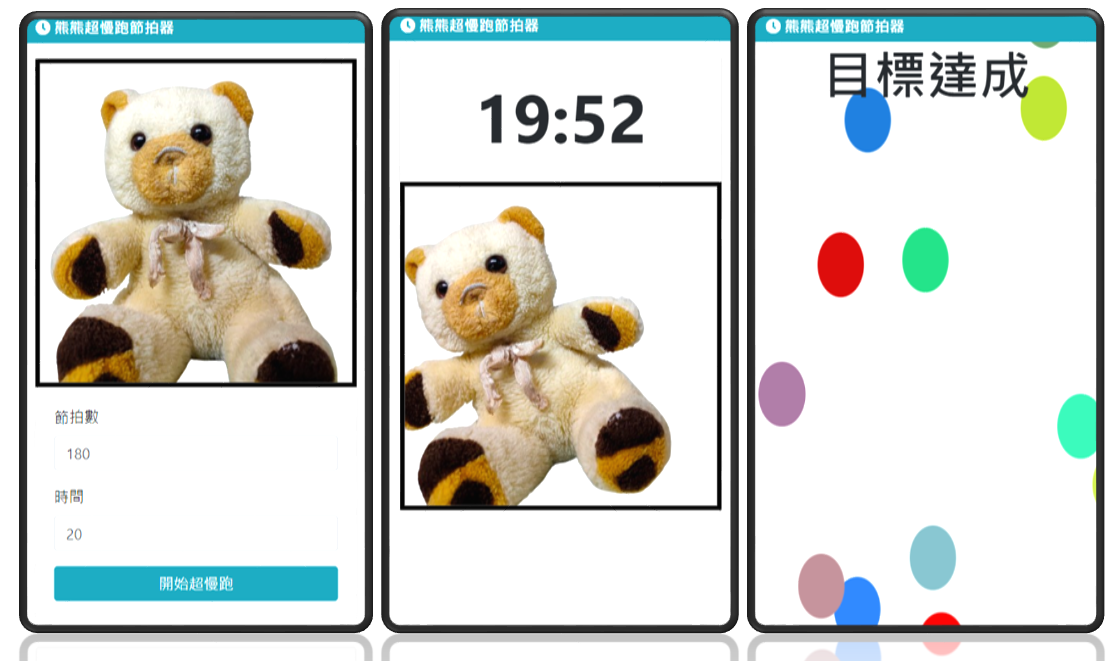
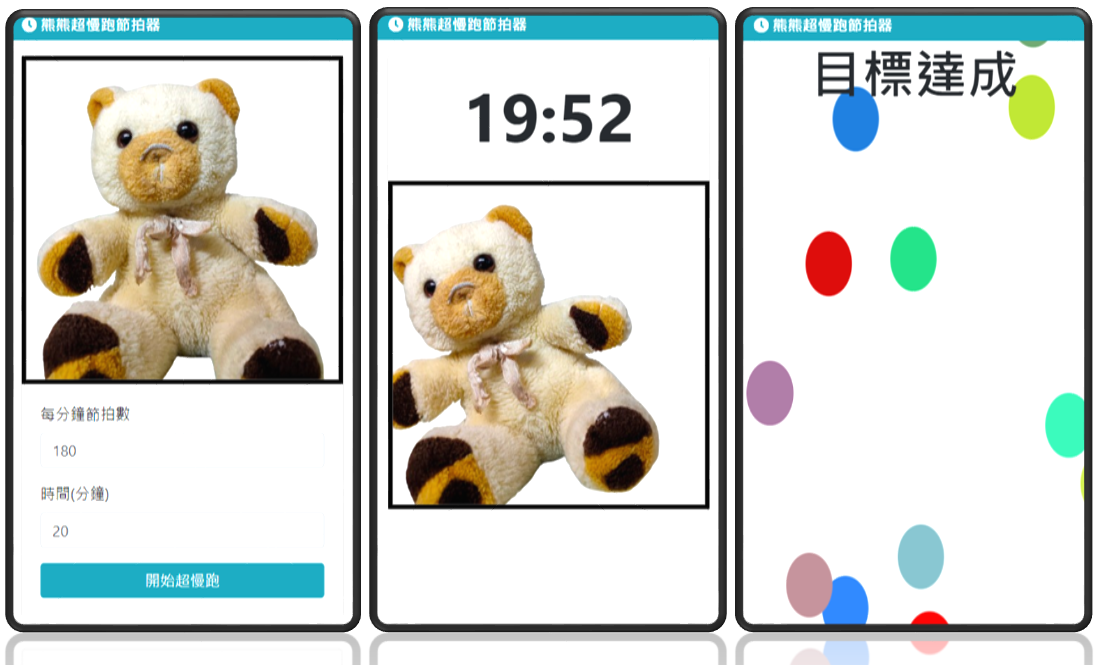
text & md

diff --git a/index.html b/index.html
@@ -84,13 +84,13 @@
                         <div class="row justify-content-center">
                             <div class="col-md-12">
                                 <div class="form-group">
-                                    <label for="bpm">節拍數</label>
+                                    <label for="bpm">每分鐘節拍數</label>
                                     <input type="number" class="form-control" id="bpm" value="180">
                                 </div>
                             </div>
                             <div class="col-md-12">
                                 <div class="form-group">
-                                    <label for="time">時間</label>
+                                    <label for="time">時間(分鐘)</label>
                                     <input type="number" class="form-control" id="time" value="20">
                                 </div>
                             </div>
